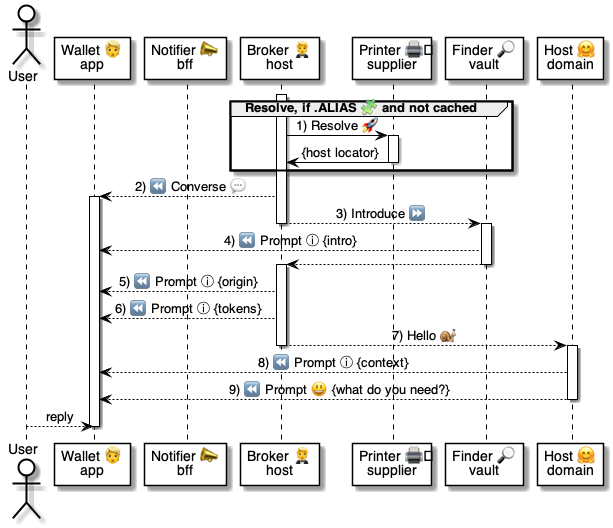
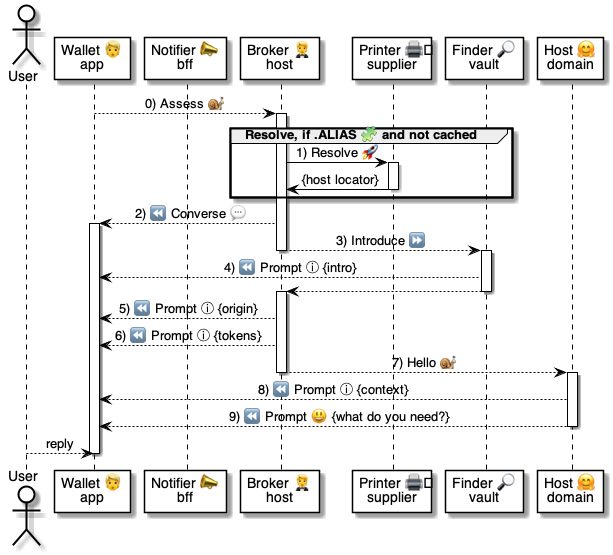
.

diff --git a/4 ⚙ Solution/20 🧑🦰 UI/Brokers 🤵/🤵⏩ Broker flows/🤵⏩🧑🦰 Assess 🔆.md b/4 ⚙ Solution/20 🧑🦰 UI/Brokers 🤵/🤵⏩ Broker flows/🤵⏩🧑🦰 Assess 🔆.md
@@ -34,6 +34,7 @@
 
 | # | Call | Notes
 |-|-|-|
+|0|[🧑🦰🐌🤵 `Assess@Broker`](<../🤵🅰 Broker methods/2 🤵🅰 Locators/🧑🦰🐌🤵 Assess.md>) | Parse the [Locator 🔆](<../../../25 🔆 Locators/Locators 🔆/🔆 Locator.md>)
 |1|[🤵🚀🖨 `Resolve@Printer`](<../../../45 🤲 Helper domains/Printers 🖨/🖨🅰 Printer methods/👥🚀🖨 Resolve.md>) | Ask [Printers 🖨](<../../../45 🤲 Helper domains/Printers 🖨/🖨🤲 Printer helper.md>) to resolve [`.ALIAS` 🧩](<../../../45 🤲 Helper domains/Printers 🖨/🖨🧩 Printer schemas/🧩 ALIAS.md>)
 | 2 | [🤵⏩🧑🦰 Converse 🔆](<🤵⏩🧑🦰 Converse 💬.md>) | Ask [Wallets 🧑🦰](<../../Wallets 🧑🦰/🧑🦰🛠 Wallet app.md>)  to open a chat window
 | 3 | [🔎⏩🧑🦰 Introduce 🤗](<../../../50 🫥 Agent domains/Finders 🔎/🔎⏩ Finder flows/🔎⏩🧑🦰 Introduce 🤗.md>) | Ask [Finders 🔎](<../../../50 🫥 Agent domains/Finders 🔎/🔎🫥 Finder agent.md>) to introduce [Hosts 🤗](<../../../41 🎭 Domain Roles/Hosts 🤗/🤗🎭 Host role.md>)

diff --git a/4 ⚙ Solution/20 🧑🦰 UI/Wallets 🧑🦰/🧑🦰💬 Wallet in Vaults 🗄/💬🤵 Unbind 🗄.md b/4 ⚙ Solution/20 🧑🦰 UI/Wallets 🧑🦰/🧑🦰💬 Wallet in Vaults 🗄/💬🤵 Unbind 🗄.md
@@ -62,8 +62,8 @@
 # Filter the binds.
 - FILTER|Which ones? >> $binds:
     Options: $vault.Binds
-    ID: ID
-    Title: Title
+    ID: Bind
+    Title: Schema$
 
 # Remove each bind
 - PARALLEL|$vault.Binds|$bind:

diff --git a/4 ⚙ Solution/20 🧑🦰 UI/Brokers 🤵/🤵🪣 Broker tables/🤵🪣 Chats.md b/4 ⚙ Solution/20 🧑🦰 UI/Brokers 🤵/🤵🪣 Broker tables/🤵🪣 Chats.md
@@ -14,6 +14,7 @@ Name: Chats
 Key: Chat
 Parents:
     Wallet: { Wallets.Wallet: Chats.Wallet }
+    Host: { Hosts.Host: Chats.Host }
 ```
 
 | Link | Table | Contains

diff --git a/4 ⚙ Solution/20 🧑🦰 UI/Brokers 🤵/🤵🪣 Broker tables/🤵🪣 Tokens.md b/4 ⚙ Solution/20 🧑🦰 UI/Brokers 🤵/🤵🪣 Broker tables/🤵🪣 Tokens.md
@@ -14,6 +14,7 @@ Name: Tokens
 Key: Token
 Parents:
     Wallet: { Wallets.Wallet: Tokens.Wallet }
+    Issuer: { Issuers.Issuer: Tokens.Issuer }
 ```
 
 

diff --git a/4 ⚙ Solution/20 🧑🦰 UI/Brokers 🤵/🤵🪣 Broker tables/🤵🪣 Binds.md b/4 ⚙ Solution/20 🧑🦰 UI/Brokers 🤵/🤵🪣 Broker tables/🤵🪣 Binds.md
@@ -15,6 +15,7 @@ Name: Binds
 Key: Bind
 Parents:
     Wallet: { Wallets.Wallet: Binds.Wallet }
+    Vault: { Vaults.Vault: Binds.Vault }
 ```
 
 
